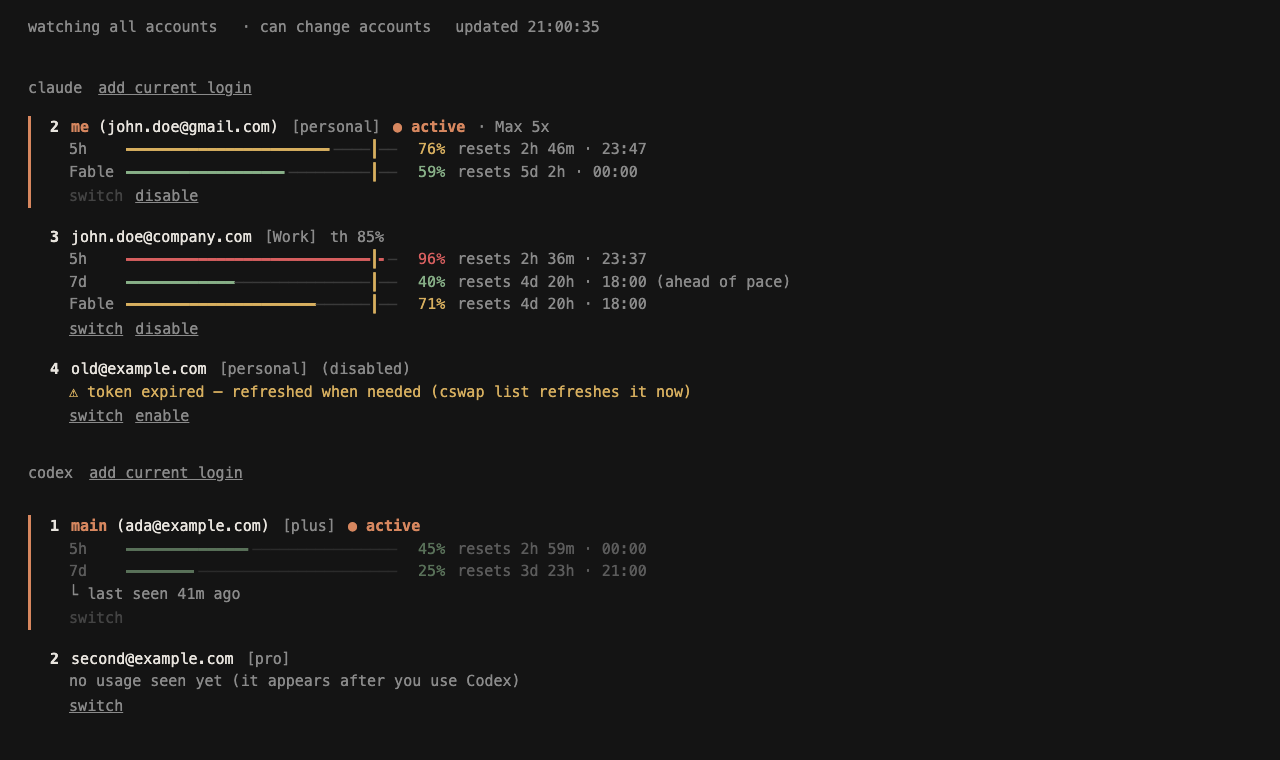
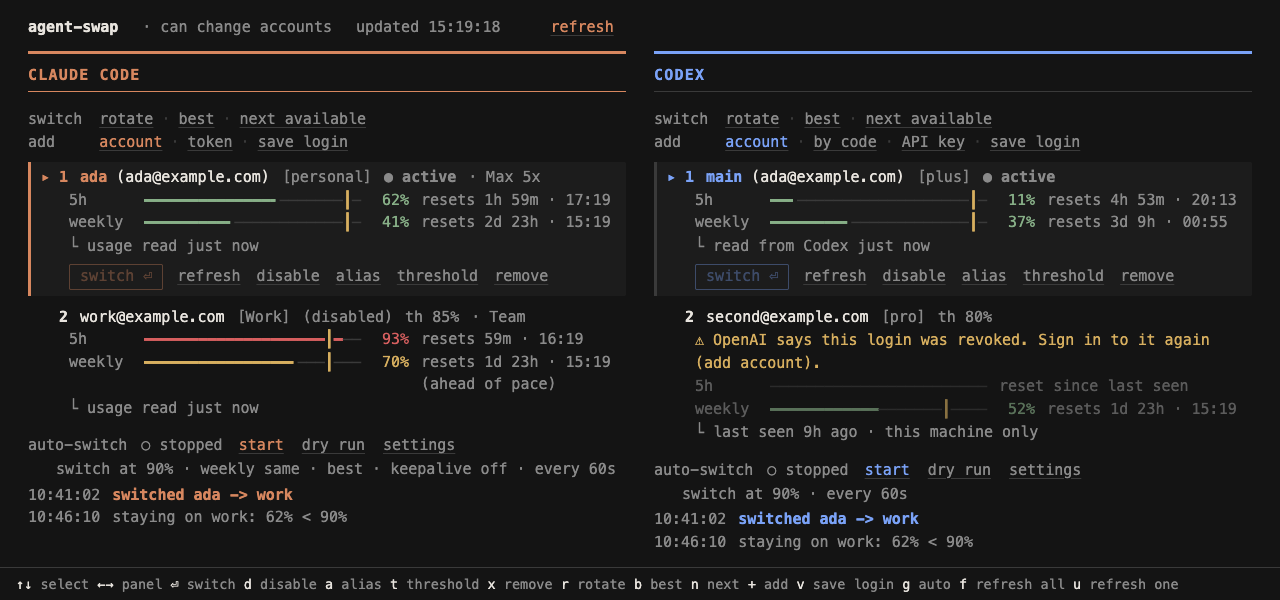
Fix a no-figure usage note wrapping letter by letter; new screenshots
In the web panel a window with no figure ("reset since last seen") put its note
in the 4-character percent column, so it wrapped one letter per line. The note
now spans the percent and reset columns.

assets/gui.png is a fresh screenshot of the two-panel control panel and
assets/tui.png one of the terminal dashboard with the Codex panel, both made
from fake data (example.com addresses).

diff --git a/src/claude_swap/gui/static/app.js b/src/claude_swap/gui/static/app.js
@@ -145,7 +145,8 @@ function bar(pct, line) {
 function usageRow(label, pct, suffix, line, dim, unknown) {
   const row = el("div", null, "row" + (dim ? " dim" : ""));
   row.append(el("span", label, "label"), bar(pct, line));
-  row.append(pct == null ? el("span", unknown || "usage unknown", "muted")
+  // No figure: the note takes the percent and reset columns together, so it never wraps letter by letter.
+  row.append(pct == null ? el("span", unknown || "usage unknown", "muted wide")
                          : el("span", pct.toFixed(0) + "%", "pct " + sev(pct)));
   if (suffix) row.append(el("span", suffix, "muted"));
   return row;

diff --git a/src/claude_swap/gui/static/app.css b/src/claude_swap/gui/static/app.css
@@ -88,7 +88,8 @@ main { padding: 6px 0 0; }
 .badge { margin-left: 12px; color: var(--muted); }
 .row { display: grid; grid-template-columns: 7ch max-content 4ch minmax(0, 1fr); gap: 0 12px; padding-left: 28px; align-items: baseline; }
 .row .label { color: var(--muted); }
-.row > .muted:last-child { overflow-wrap: anywhere; }
+.row > .muted:last-child { overflow-wrap: break-word; }
+.row .wide { grid-column: 3 / span 2; }
 .bar { white-space: pre; }
 .pct { min-width: 4ch; text-align: right; }
 .dim { opacity: 0.6; }
